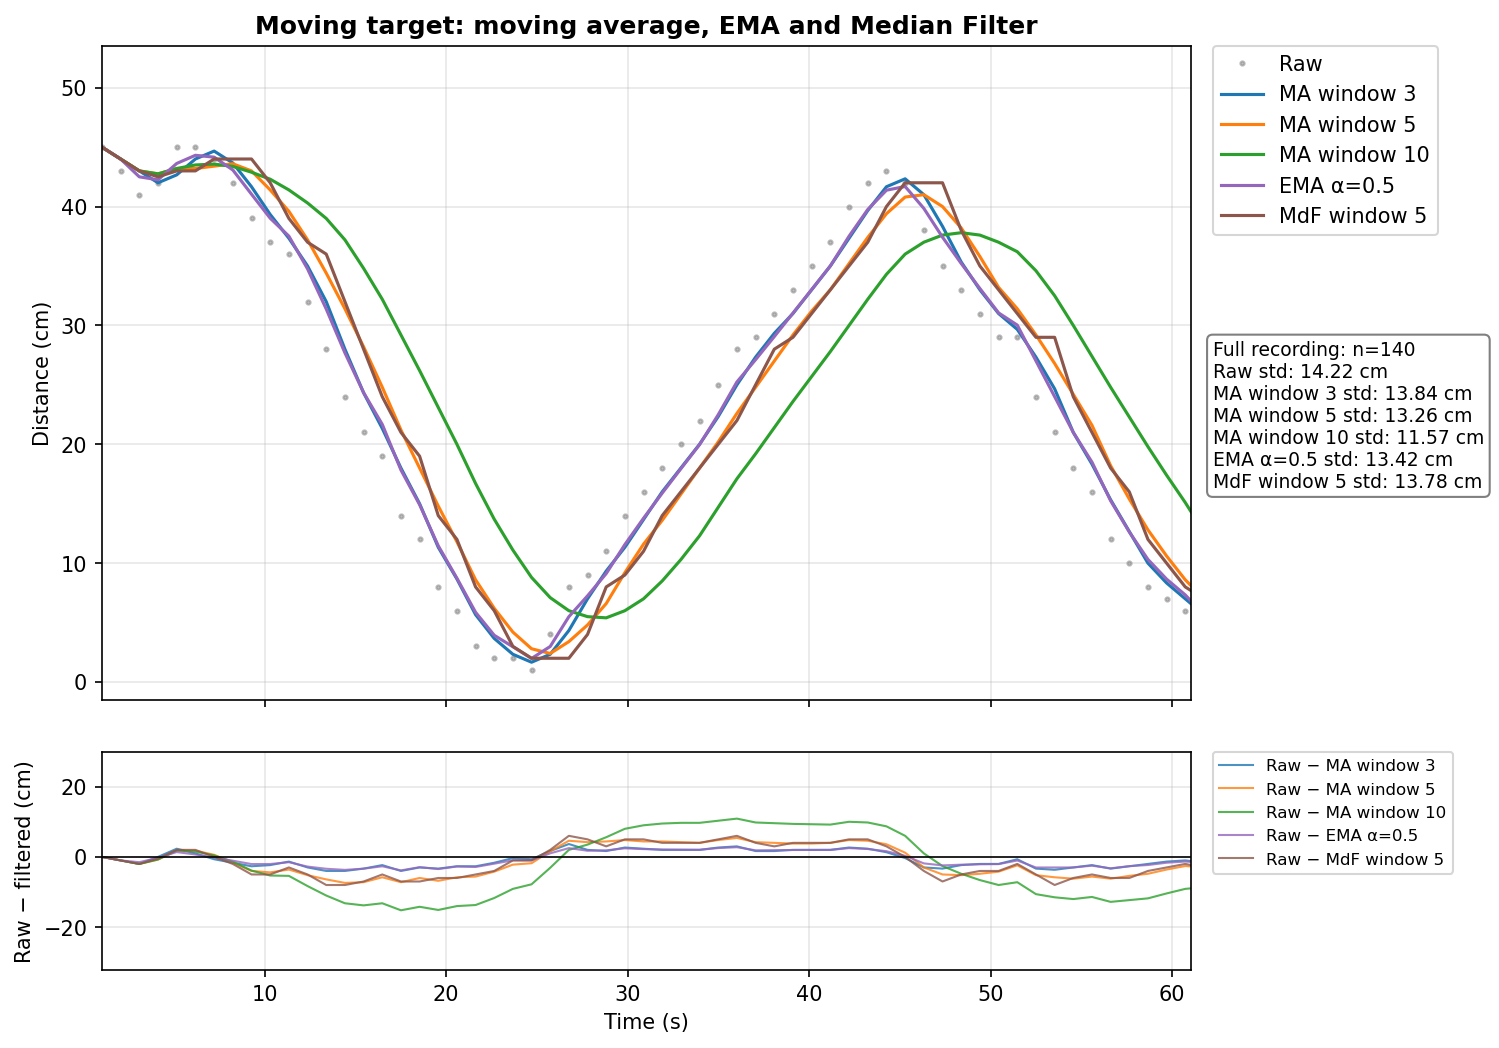
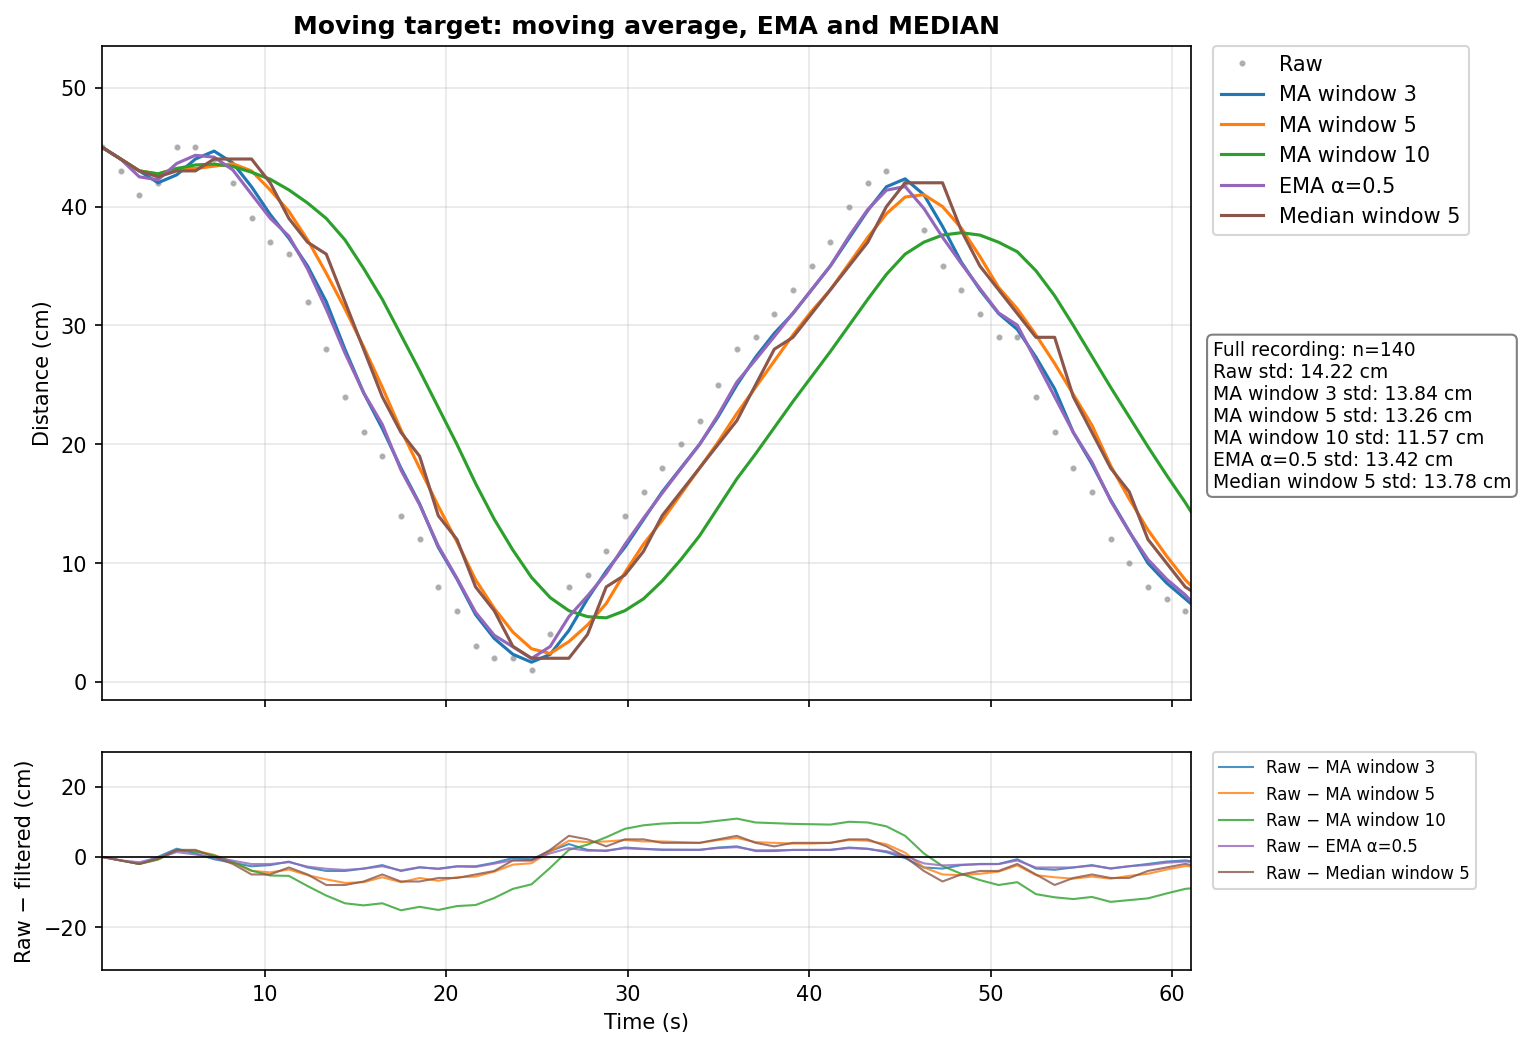
Plot synthetic logs and generated new image

diff --git a/plot_compare.py b/plot_compare.py
@@ -3,7 +3,9 @@
 
 Run: python3 plot_compare.py
 Use --seconds 120 to show a longer interval, or --seconds 0 for all samples.
-The --moving and --static options accept: RAW W3 W5 W10 EMA paths.
+The --moving and --static options accept: RAW W3 W5 W10 EMA MEDIAN paths.
+The --synthetic option accepts: RAW REFERENCE MA EMA MEDIAN paths.
+Three separate images are generated; synthetic views use fixed event intervals.
 """
 import argparse
 from pathlib import Path
@@ -83,6 +85,61 @@ def compare_log(raw_path, filtered_logs, title, out_path, ref_line=None,
     print(f"Saved: {out_path}")
 
 
+def compare_synthetic(raw_path, reference_path, filtered_logs, out_path):
+    """Show the full synthetic experiment and details around its two events."""
+    t_raw, v_raw = load_log(Path(raw_path))
+    t_ref, v_ref = load_log(Path(reference_path))
+    curves = []
+    for path, label, color in filtered_logs:
+        t, v = load_log(Path(path))
+        if not np.array_equal(t, t_raw):
+            raise ValueError(f"Timestamps do not match synthetic input: {path}")
+        curves.append((t, v, label, color))
+    if not np.array_equal(t_ref, t_raw):
+        raise ValueError("Synthetic reference timestamps do not match input")
+
+    fig, axes = plt.subplots(3, 1, figsize=(12, 10))
+    views = [
+        ("Full recording · 100 samples at 1 Hz", (t_raw[0], t_raw[-1]), None),
+        ("Isolated error at 20 s · true distance stays at 50 cm", (17, 32), (45, 155)),
+        ("Sustained change at 50 s · true distance becomes 20 cm", (47, 62), (17, 53)),
+    ]
+    for ax, (title, limits, y_limits) in zip(axes, views):
+        ax.plot(t_raw, v_raw, ".", color="gray", markersize=5,
+                alpha=0.7, label="Raw input", zorder=4)
+        for t, v, label, color in curves:
+            # Hold each output until the next sample; don't imply an early response.
+            ax.step(t, v, where="post", color=color, label=label, linewidth=1.7)
+        # A changing reference needs a curve, not a horizontal reference line.
+        ax.step(t_ref, v_ref, where="post", color="black", linestyle="--",
+                linewidth=1.4, label="Known true distance", zorder=5)
+        ax.set_xlim(*limits)
+        if y_limits is not None:
+            ax.set_ylim(*y_limits)
+        ax.set_title(title, fontsize=11, loc="left")
+        ax.set_ylabel("Distance (cm)")
+        ax.set_xlabel("Time (s)")
+        ax.grid(True, alpha=0.25)
+    axes[1].axvline(20, color="gray", linestyle=":", linewidth=1)
+    axes[2].axvline(50, color="gray", linestyle=":", linewidth=1)
+    axes[2].axhspan(19, 21, color="gray", alpha=0.12)
+    axes[2].text(0.98, 0.88, "Shaded band: 20 ± 1 cm", ha="right",
+                 transform=axes[2].transAxes, fontsize=9)
+    fig.suptitle("Synthetic experiment: one spike, then a sustained change",
+                 fontsize=14, fontweight="bold", y=0.985)
+    handles, labels = axes[0].get_legend_handles_labels()
+    fig.legend(handles, labels, loc="upper center", bbox_to_anchor=(0.5, 0.956),
+               ncol=5, frameon=False, fontsize=9)
+    fig.text(0.5, 0.012, "Invented test data, not a physical recording. Detail panels use different vertical scales.",
+             ha="center", fontsize=9)
+    fig.subplots_adjust(top=0.89, bottom=0.08, hspace=0.48, left=0.08, right=0.98)
+    out_path = Path(out_path)
+    out_path.parent.mkdir(parents=True, exist_ok=True)
+    fig.savefig(out_path, dpi=150, bbox_inches="tight")
+    plt.close(fig)
+    print(f"Saved: {out_path}")
+
+
 def main():
     ap = argparse.ArgumentParser(description=__doc__)
     ap.add_argument("--moving", nargs=6, default=[
@@ -100,6 +157,13 @@ def main():
         "Data/readings03_static50_filtered_w10.log",
         "Data/readings03_static50_ema_filtered_0_5.log",
         "Data/readings03_static50_median_filtered_w5.log",
+    ])
+    ap.add_argument("--synthetic", nargs=5, default=[
+        "Data/synthetic_spike_step_100.log",
+        "Data/synthetic_spike_step_100_reference.log",
+        "Data/synthetic_spike_step_100_moving_average_w10.log",
+        "Data/synthetic_spike_step_100_ema_0_5.log",
+        "Data/synthetic_spike_step_100_median_filtered_w5.log",
     ])
     ap.add_argument("--outdir", default="Data")
     ap.add_argument("--seconds", type=float, default=60,
@@ -121,6 +185,14 @@ def main():
         ]
         compare_log(paths[0], filtered_logs, title, Path(args.outdir) / filename,
                     ref_line=reference, seconds=args.seconds)
+
+    synthetic_filters = [
+        (args.synthetic[2], "MA window 10", "tab:green"),
+        (args.synthetic[3], "EMA α=0.5", "tab:purple"),
+        (args.synthetic[4], "Median window 5", "tab:brown"),
+    ]
+    compare_synthetic(args.synthetic[0], args.synthetic[1], synthetic_filters,
+                      Path(args.outdir) / "compare_synthetic.png")
 
 
 if __name__ == "__main__":

diff --git a/src/main.cpp b/src/main.cpp
@@ -59,6 +59,27 @@ int main(){
         median_filter
     );
 
+    // synthetic data process
+    moving_average.reset();
+    ema.reset();
+    median_filter.reset();
+
+    filter_log(
+        "./Data/synthetic_spike_step_100.log",
+        "./Data/synthetic_spike_step_100_median_filtered_w5.log",
+        median_filter
+    );
+    filter_log(
+        "./Data/synthetic_spike_step_100.log",
+         "./Data/synthetic_spike_step_100_moving_average_w10.log",
+         moving_average
+    );
+    filter_log(
+        "./Data/synthetic_spike_step_100.log",
+        "./Data/synthetic_spike_step_100_ema_0_5.log",
+        ema
+    );
+
     auto starting_time = std::chrono::high_resolution_clock::now();
 
     bool state = a_scanner.get_brake_state();
